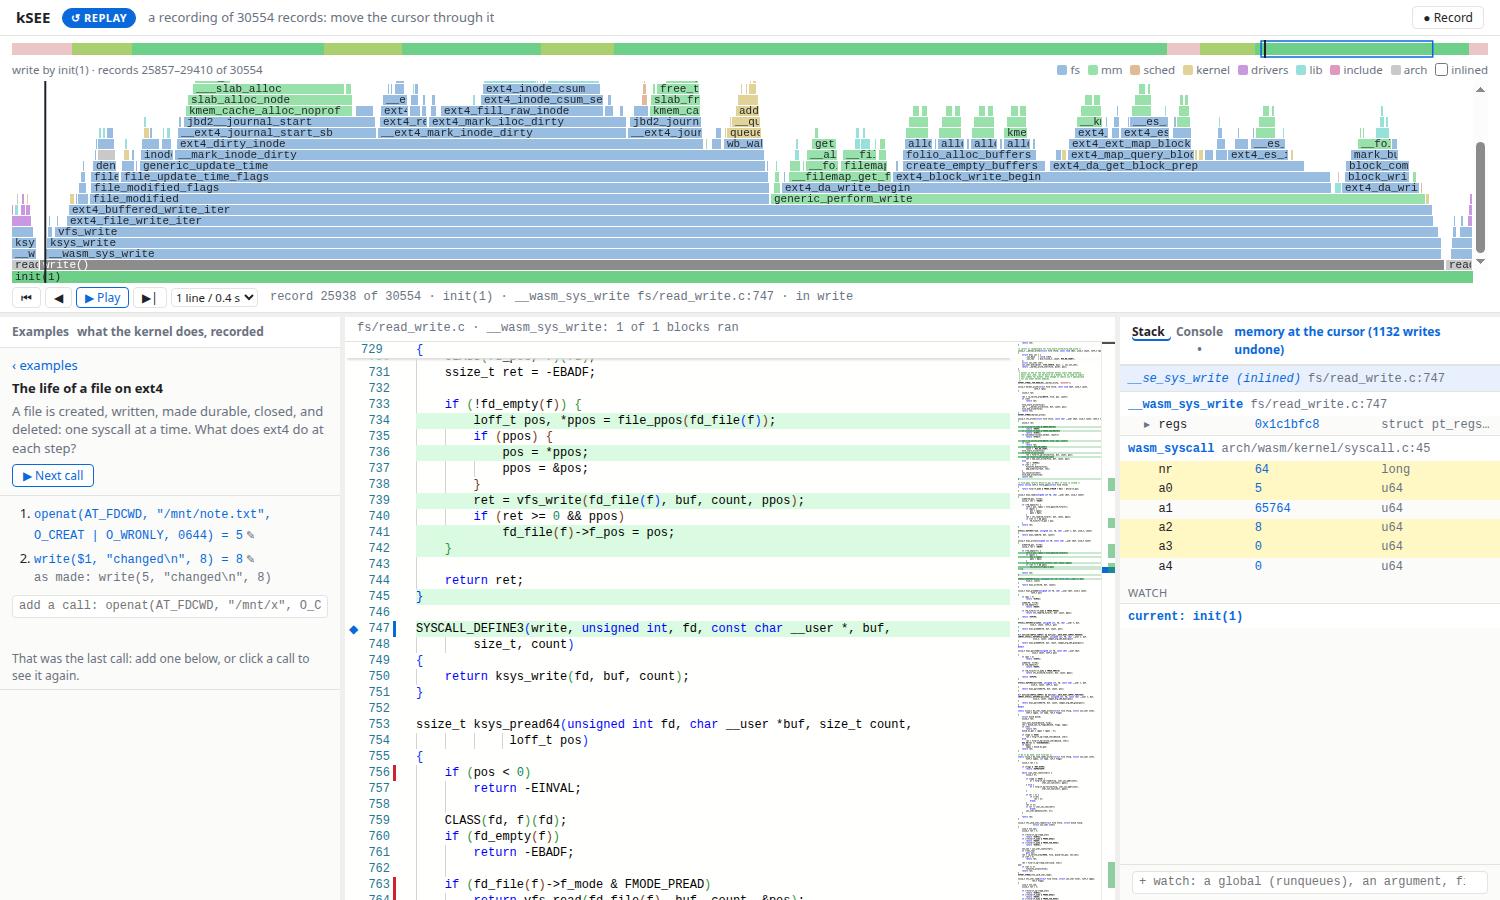
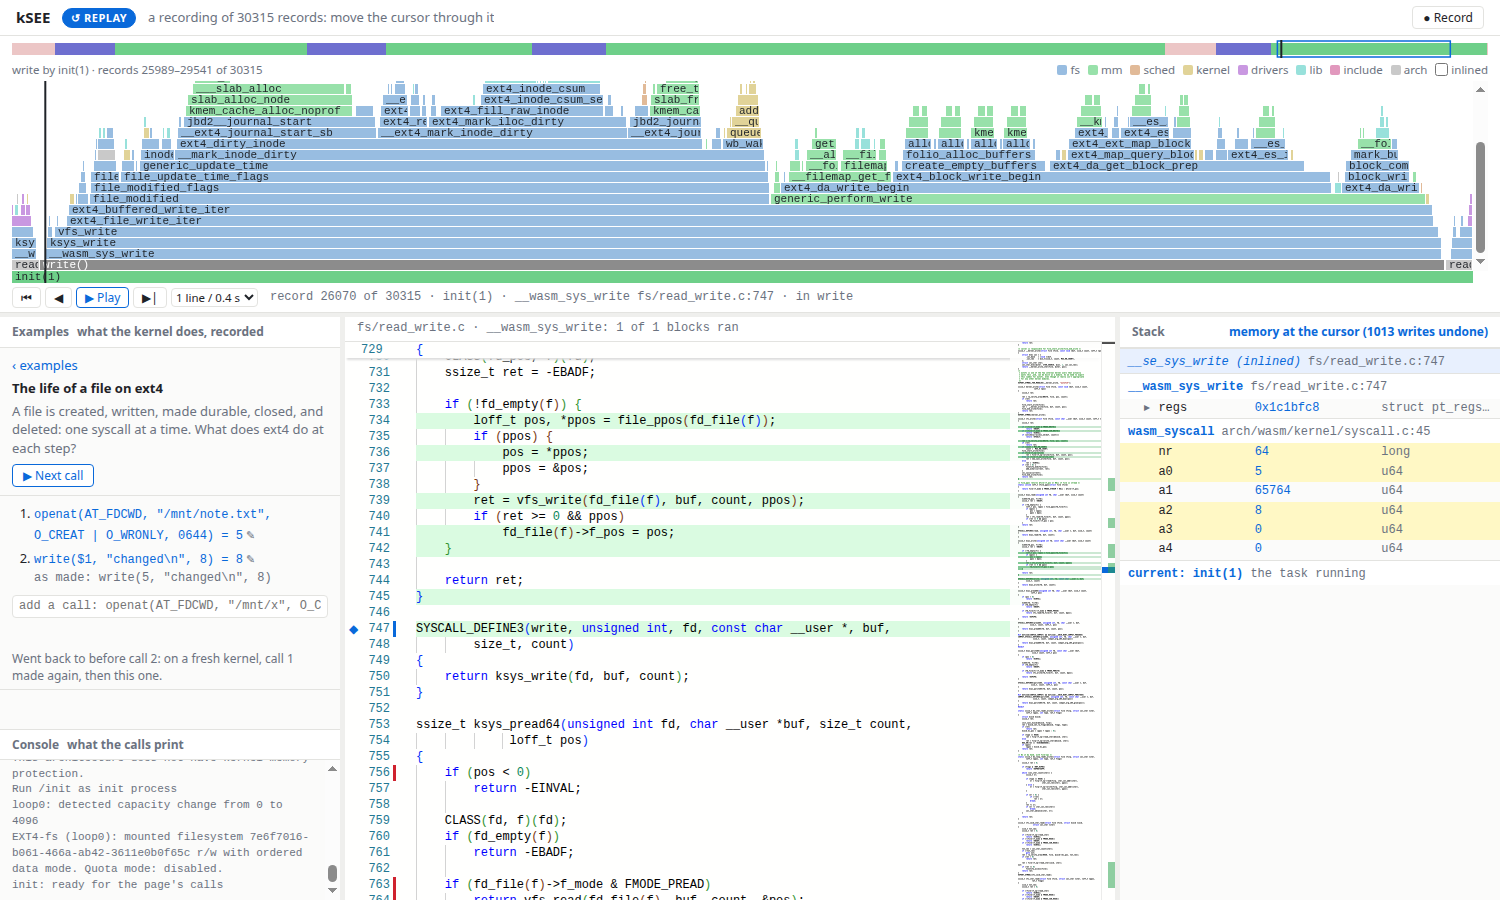
No watches; current at the bottom of the Stack; the console under the examples
The watch input, the source's Watch action and Machine.globals are gone
(hovering a name shows its value); the task running (current: its
task_struct, as it was) is the last row of the call stack. The console
is under the examples (what the calls print), so the Stack has the right
column, with no tabs.

diff --git a/web/callstack.js b/web/callstack.js
@@ -1,9 +1,8 @@
 // The Stack tab: the call stack at the cursor, innermost first, each call
 // with its arguments and its locals in memory as a tree (like a debugger's
 // variables), rebuilt from the trace (Machine.call_stack: a call's
-// arguments are in its record, its locals' addresses in another);
-// then the watches: the task at the cursor, and expressions (a global, or
-// a call's argument, and fields: "file->f_pos"; see resolve). Pointers open into
+// arguments are in its record, its locals' addresses in another); at the
+// bottom, the task running then (current). Pointers open into
 // what they point to, structs into their fields, read from memory as it was
 // at the cursor (Machine.memory_at); what is open stays open while
 // stepping; values that changed since the cursor last moved are
@@ -15,7 +14,7 @@ import { $, el } from "./dom.js";
 export function callstack(app) {
   const { m } = app;
   // Open paths, and the values shown before (to highlight changes).
-  const s = { open: new Set(), last: new Map(), now: new Map(), frames: [], task: null, watches: [], sel: null };
+  const s = { open: new Set(), last: new Map(), now: new Map(), frames: [], task: null, sel: null };
 
   // The children of value `o` (an Object, see ksee_core::view), if it has any.
   function kids(o) {
@@ -72,25 +71,13 @@ export function callstack(app) {
         rows(f.locals, `${n - k}/${f.func}/locals`, 1, body);
       }
     });
-    // The watches: the task at the cursor, then the globals asked for.
-    const watches = [];
-    if (s.task) watches.push({ title: `current: ${s.task.comm ?? "?"}(${s.task.pid ?? "?"})`, key: "task",
-                               value: () => m.object("task_struct", s.task.addr, 1) });
-    for (const g of s.watches) watches.push({ title: g, key: `watch/${g}`, value: () => resolve(g), remove: g });
-    if (watches.length) body.push(el("tr", { className: "sep" }, el("td", { colSpan: 3, textContent: "watch" })));
-    for (const w of watches) {
-      const o = w.value();
-      const h = head(w.title, "", () => {
-        s.open.has(w.key) ? s.open.delete(w.key) : s.open.add(w.key);
+    // At the bottom: the task running then (its task_struct, as it was).
+    if (s.task && s.frames.length) {
+      body.push(head(`current: ${s.task.comm ?? "?"}(${s.task.pid ?? "?"})`, "the task running", () => {
+        s.open.has("task") ? s.open.delete("task") : s.open.add("task");
         draw();
-      }, "watch");
-      if (w.remove) h.firstChild.append(el("a", { className: "who", textContent: "  ✕", title: "stop watching", onclick: () => {
-        s.watches = s.watches.filter((x) => x !== w.remove);
-        draw();
-      } }));
-      body.push(h);
-      if (!o) body.push(el("tr", {}, el("td", { colSpan: 3, className: "dim", style: "padding-left:24px", textContent: "not here (no such name at the cursor)" })));
-      else if (s.open.has(w.key)) rows(o.children ?? [o], w.key, 1, body);
+      }, "task"));
+      if (s.open.has("task")) rows(m.object("task_struct", s.task.addr, 1)?.children ?? [], "task", 1, body);
     }
     $("stack").replaceChildren(el("table", { className: "objs stack" }, el("tbody", {}, ...body)));
   }
@@ -129,19 +116,6 @@ export function callstack(app) {
     return o ? { ...o, name: expr } : null;
   }
 
-  // Watch expression `expr` (opened); `only` as for resolve, to check it.
-  function watch(expr, only) {
-    if (!resolve(expr, only)) return false;
-    if (!s.watches.includes(expr)) s.watches.push(expr);
-    s.open.add(`watch/${expr}`);
-    draw();
-    return true;
-  }
-  $("globals").append(...m.globals().map((g) => el("option", { value: g })));
-  $("watchf").onsubmit = (e) => {
-    e.preventDefault();
-    if (watch($("watch").value.trim())) $("watch").value = "";
-  };
   // Select the call on the stack whose first record is `first` (null: the
   // innermost; `inlined`: code inlined into it, from that function): its
   // frame, or null if it is not on the stack.
@@ -155,5 +129,5 @@ export function callstack(app) {
   // The call inlined frame `f` is code of.
   const owner = (f) => s.frames.find((x) => x.first === f.first && !x.inlined) ?? null;
 
-  return { show, select, owner, watch, resolve, kids };
+  return { show, select, owner, resolve, kids };
 }

diff --git a/web/ui.css b/web/ui.css
@@ -49,8 +49,6 @@ a:hover { text-decoration: underline; }
 .run { display: grid; grid-template-columns: 1fr auto; gap: 0 8px; }
 .run .where { grid-column: 1 / -1; color: var(--dim); font-size: 11px; font-family: var(--mono); }
 .count { font-family: var(--mono); font-size: 11px; color: var(--dim); }
-.tabs { display: flex; gap: 2px; }
-.tabs button.on { border-color: var(--accent); }
 
 /* Source */
 table.src { border-collapse: collapse; font-family: var(--mono); font-size: 12px; width: 100%; }
@@ -68,11 +66,7 @@ table.src tr.at td.code { background: var(--at); }
 .nu { color: var(--nu); } .pp { color: var(--pp); }
 table.src tr.cursor td.code { box-shadow: inset 3px 0 var(--accent); background: var(--sel); }
 #console { margin: 0; padding: 6px 12px; font-family: var(--mono); font-size: 11px; white-space: pre-wrap; word-break: break-word; color: var(--dim); }
-h2.tabs button { border: 0; background: none; padding: 0 6px 0 0; font-weight: 600; color: var(--dim); }
-h2.tabs button.on { color: var(--fg); box-shadow: inset 0 -2px var(--accent); }
 .err { color: var(--miss); }
-.tab { display: flex; flex-direction: column; flex: 1; min-height: 0; }
-.tab[hidden] { display: none; }
 
 /* The state */
 .badge { font-size: 11px; font-weight: 700; letter-spacing: .04em; padding: 1px 8px; border-radius: 10px; border: 1px solid var(--line); white-space: nowrap; }
@@ -144,9 +138,7 @@ table.objs td.ftype { color: var(--dim); }
 table.objs tr.changed td { background: var(--chg); }
 .tw { color: var(--dim); display: inline-block; width: 1.2em; }
 table.stack tr.sep td { padding: 8px 8px 2px; color: var(--dim); font-family: system-ui, sans-serif; font-size: 11px; text-transform: uppercase; letter-spacing: .05em; }
-table.stack tr.watch td { background: var(--panel); }
-.watchbar { padding: 6px 12px; border-top: 1px solid var(--line); }
-.watchbar input { width: 100%; font-family: var(--mono); }
+table.stack tr.task td { background: var(--panel); }
 
 /* Hover: a value */
 .tip { position: fixed; z-index: 10; max-width: 420px; padding: 6px 10px; background: var(--panel); border: 1px solid var(--line);
@@ -183,3 +175,7 @@ ol.steps ol.stops { margin: 4px 0 8px; }
 .callform { margin: 8px 12px; display: flex; flex-direction: column; gap: 4px; }
 .callform input { font-size: 12px; padding: 2px 6px; }
 .callform .hint { font-size: 11px; min-height: 1.4em; white-space: pre-wrap; }
+
+/* The console, under the examples */
+h2.sub { border-top: 1px solid var(--line); }
+.consolebox { flex: 0 0 140px; }

diff --git a/web/index.html b/web/index.html
@@ -33,6 +33,8 @@
   <div class="col">
     <h2>Examples <span class="dim">what the kernel does, recorded</span></h2>
     <div class="body" id="examples"></div>
+    <h2 class="sub">Console <span class="dim">what the calls print</span></h2>
+    <div class="body consolebox" id="pane-console"><pre id="console"></pre></div>
   </div>
   <div class="vsplit" data-col="left" title="drag to resize"></div>
   <div class="col">
@@ -42,14 +44,9 @@
   </div>
   <div class="vsplit" data-col="right" title="drag to resize"></div>
   <div class="col">
-    <h2 class="tabs"><button id="tab-stack" class="on">Stack</button><button id="tab-console">Console <span id="console-new"></span></button>
-      <span class="right dim" id="mem-note" title="Values are read from memory as it was at the cursor">memory now</span></h2>
-    <div class="tab" id="pane-stack">
-      <div class="stackhead dim" id="stack-note"></div>
-      <div class="body" id="stack"></div>
-      <form class="watchbar" id="watchf"><input id="watch" list="globals" placeholder="+ watch: a global (runqueues), an argument, file->f_pos …" aria-label="watch an expression"><datalist id="globals"></datalist></form>
-    </div>
-    <div class="tab body" id="pane-console" hidden><pre id="console"></pre></div>
+    <h2>Stack <span class="right dim" id="mem-note" title="Values are read from memory as it was at the cursor">memory now</span></h2>
+    <div class="stackhead dim" id="stack-note"></div>
+    <div class="body" id="stack"></div>
   </div>
 </main>
 <script type="module">

diff --git a/web/source.js b/web/source.js
@@ -2,8 +2,8 @@
 // lines where blocks ran (how often: hover the line number; untaken ones
 // marked), the
 // function's lines, and the cursor. Hover a name for its value at the
-// cursor (an argument, a global, and fields: file->f_pos); right-click to
-// watch it; F12 or Ctrl+click on a function to open its source.
+// cursor (an argument, a global, and fields: file->f_pos); F12 or
+// Ctrl+click on a function to open its source.
 import { $ } from "./dom.js";
 import { loadMonaco, readOnly } from "./editor.js";
 
@@ -66,11 +66,6 @@ export function source(app) {
         return h && { range: new monaco.Range(pos.lineNumber, h.start + 1, pos.lineNumber, h.end + 1), contents: h.contents };
       },
     });
-    ed.addAction({ id: "ksee.watch", label: "Watch", contextMenuGroupId: "navigation", contextMenuOrder: 0,
-      run: () => {
-        const pos = ed.getPosition(), e = exprAt(ed.getModel().getLineContent(pos.lineNumber), pos.column - 1);
-        if (e) app.stack.watch(e.expr, inFunction(pos.lineNumber) ? v.fn.name : null);
-      } });
     ed.addAction({ id: "ksee.definition", label: "Go to the function's source", contextMenuGroupId: "navigation",
       contextMenuOrder: 1, keybindings: [monaco.KeyCode.F12], run: () => definition(ed.getPosition()) });
   });

diff --git a/web/app.js b/web/app.js
@@ -209,18 +209,6 @@ export function app(m) {
     e.preventDefault();
   });
 
-  // ---- The right column's tabs ----
-  let current = "stack";
-  function tab(name) {
-    current = name;
-    for (const t of ["stack", "console"]) {
-      $(`tab-${t}`).classList.toggle("on", t === name);
-      $(`pane-${t}`).hidden = t !== name;
-    }
-    if (name === "console") $("console-new").textContent = "";
-  }
-  for (const t of ["stack", "console"]) $(`tab-${t}`).onclick = () => tab(t);
-
   // ---- Resizing: the columns, and the timeline's height ----
   const sizes = { left: 340, right: 380, chart: 190 };
   try { Object.assign(sizes, JSON.parse(localStorage.getItem("ksee.sizes") ?? "{}")); } catch { /* none kept */ }
@@ -264,7 +252,6 @@ export function app(m) {
     if (out) {
       $("console").textContent += out.replaceAll("\r", "");
       $("pane-console").scrollTop = $("pane-console").scrollHeight;
-      if (current !== "console") $("console-new").textContent = "•";
     }
     const code = m.halted();
     if (code !== undefined) {

diff --git a/crates/ksee-runtime/src/replay.rs b/crates/ksee-runtime/src/replay.rs
@@ -198,11 +198,6 @@ impl Machine {
         self.with_memory(|mem| to_js(&tables().types.object(mem, label, addr, ty, depth.unwrap_or(1))))
     }
 
-    /// The names of variables with fixed addresses (runqueues, init_task, ...).
-    pub fn globals(&self) -> Vec<String> {
-        tables().types.globals.keys().cloned().collect()
-    }
-
     /// The value of the variable `name` (view::Object), or null.
     pub fn global(&self, name: &str, depth: Option<u32>) -> JsValue {
         match tables().types.globals.get(name) {

diff --git a/docs/design.md b/docs/design.md
@@ -33,7 +33,7 @@ SMP, no fork: see Limits).
      drag, step line by line, Play;
    - *code*: the source line at the cursor, the lines that ran;
    - *values*: the call stack with each call's arguments and locals,
-     watches, and a name's value on hover; memory as it was at the cursor;
+     the task running, and a name's value on hover; memory as it was at the cursor;
      ✎: which code last wrote a value.
    An example's stops are places in the recording, with a note each: Next goes
    to the next one.
@@ -45,7 +45,7 @@ SMP, no fork: see Limits).
 │ Examples     │ The stop's note              │ Stack: calls, │
 │              │ Source at the cursor         │ arguments,    │
 │              │ (lines that ran)             │ locals,       │
-│              │                              │ watches       │
+│              │                              │ current task  │
 └──────────────┴──────────────────────────────┴───────────────┘
 ```
 

diff --git a/docs/runtime.md b/docs/runtime.md
@@ -64,8 +64,8 @@ source. Rust does the work: JS only lays it out.
 |---|---|
 | app.js | wires the panels to the Machine; the state (idle, recording, replay, halted); the cursor; line steps and Play |
 | timeline.js | the overview, the task strip, the stack chart (a flame graph: outermost at the bottom); zoom, pan |
-| source.js | the source at the cursor (Monaco): lines that ran, the function, hover values, Watch, definitions |
-| callstack.js | the Stack: calls with arguments and locals, watches, ✎ who wrote a value |
+| source.js | the source at the cursor (Monaco): lines that ran, the function, hover values, definitions |
+| callstack.js | the Stack: calls with arguments and locals, the task (current), ✎ who wrote a value |
 | examples.js | the examples: syscalls /init makes, one at a time, recorded; their stops; adding a call |
 | args.js | a syscall's arguments, written as in C, with the kernel's constants |
 | ksee.js, worker.js | booting; each Worker's script |

diff --git a/README.md b/README.md
@@ -47,7 +47,7 @@ task ran (scroll to zoom, drag to pan; hover a call for what it was and a
 preview of where, click it to go there; click a syscall, or double-click
 any call, to select it: its records from its start to its end, with
 whatever else ran in between). Hover
-a name in the source for its value at the cursor; right-click to watch it;
+a name in the source for its value at the cursor;
 ✎ on a value says which code last wrote it. ● Record records the kernel
 until you stop it.
 
